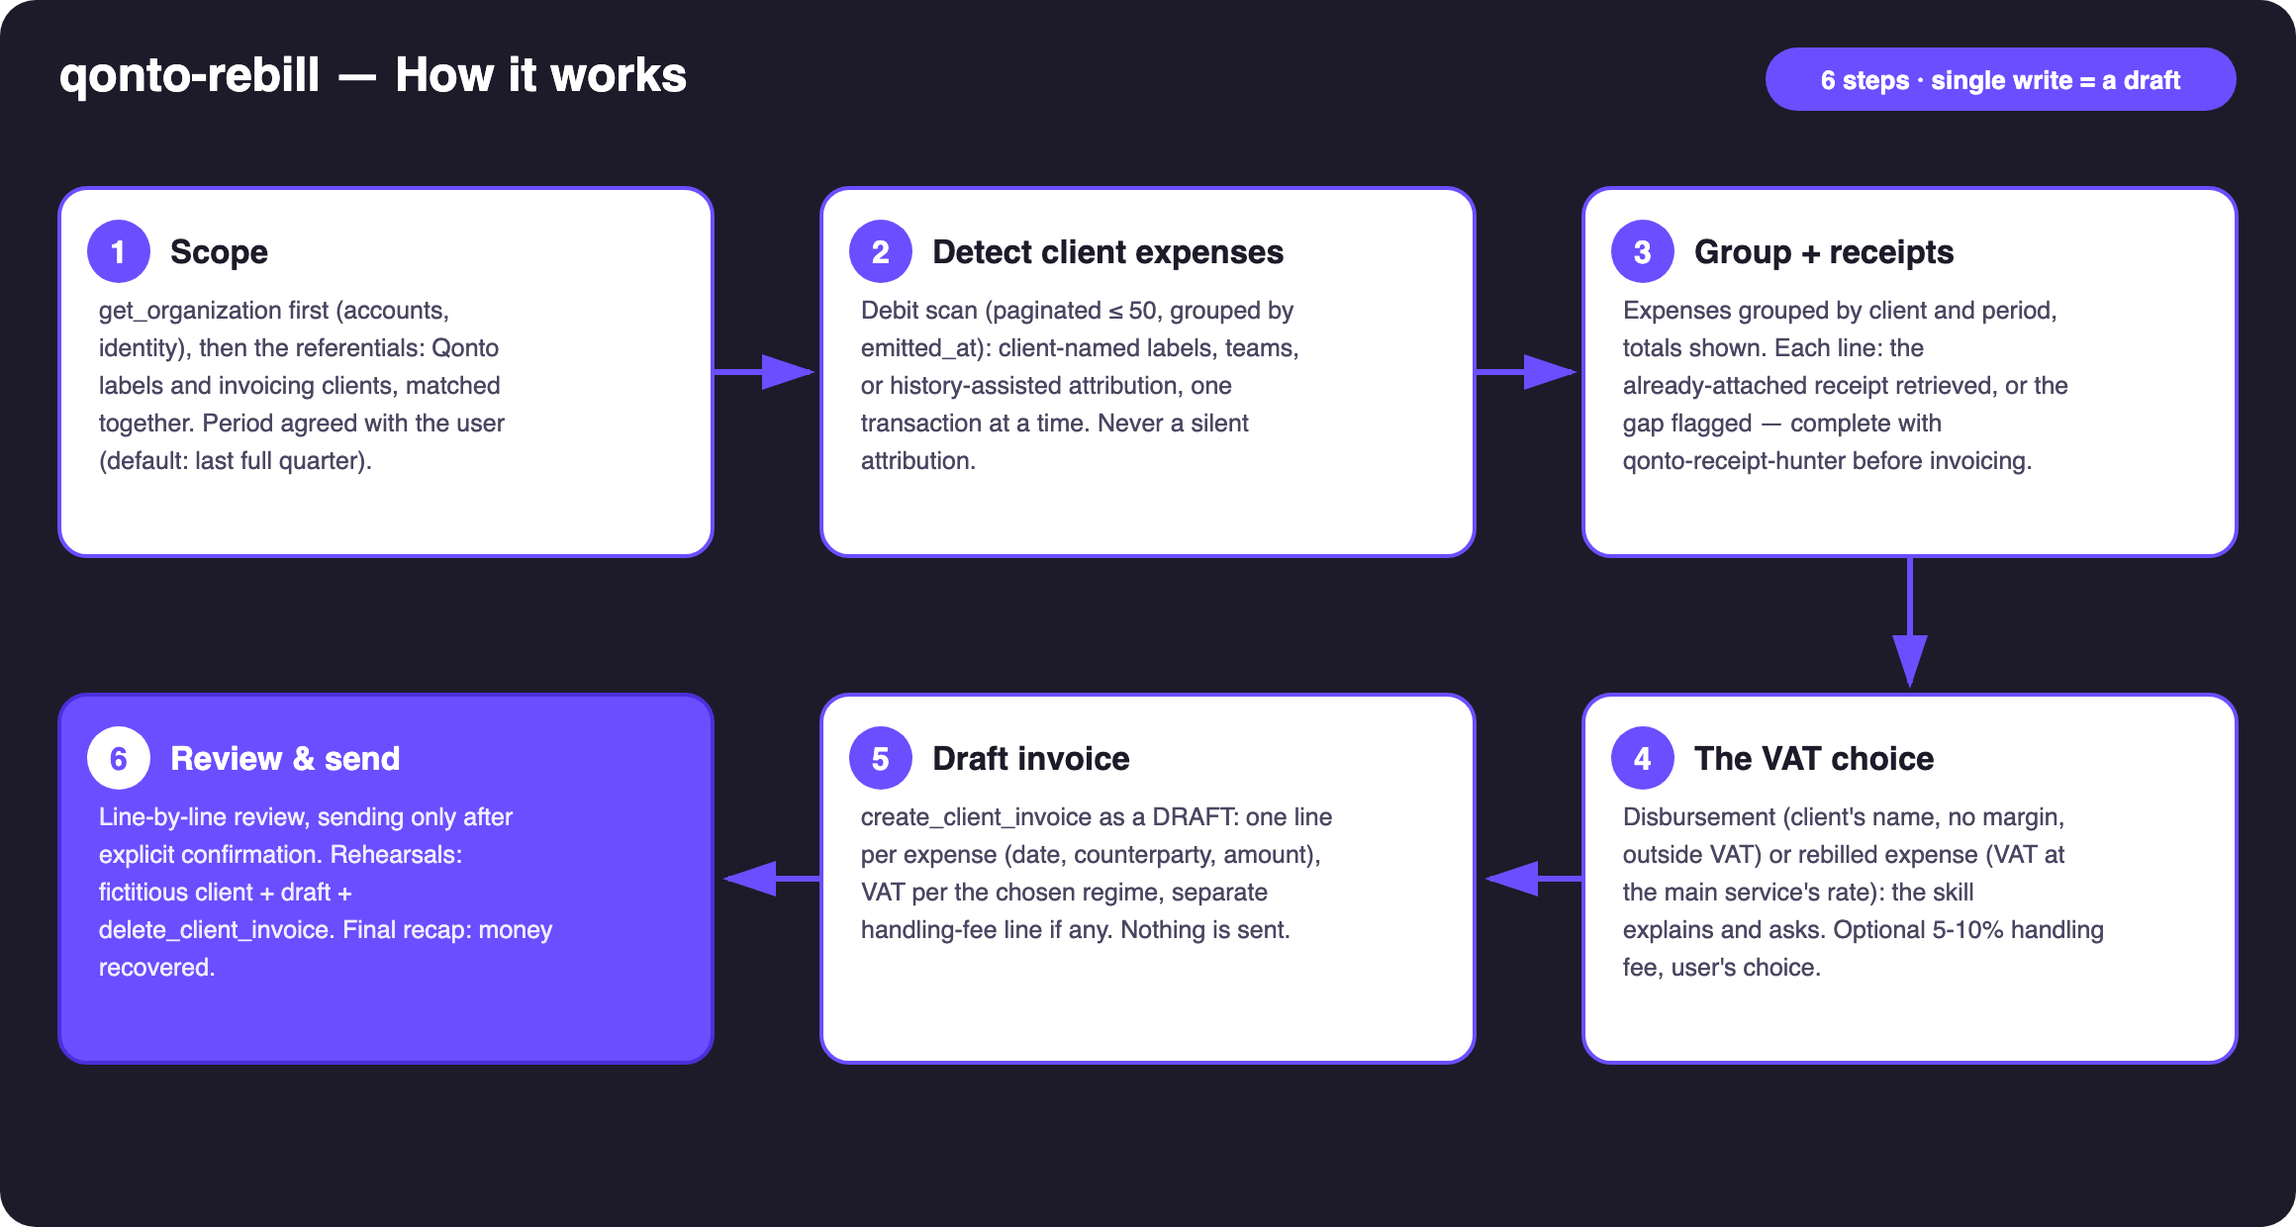
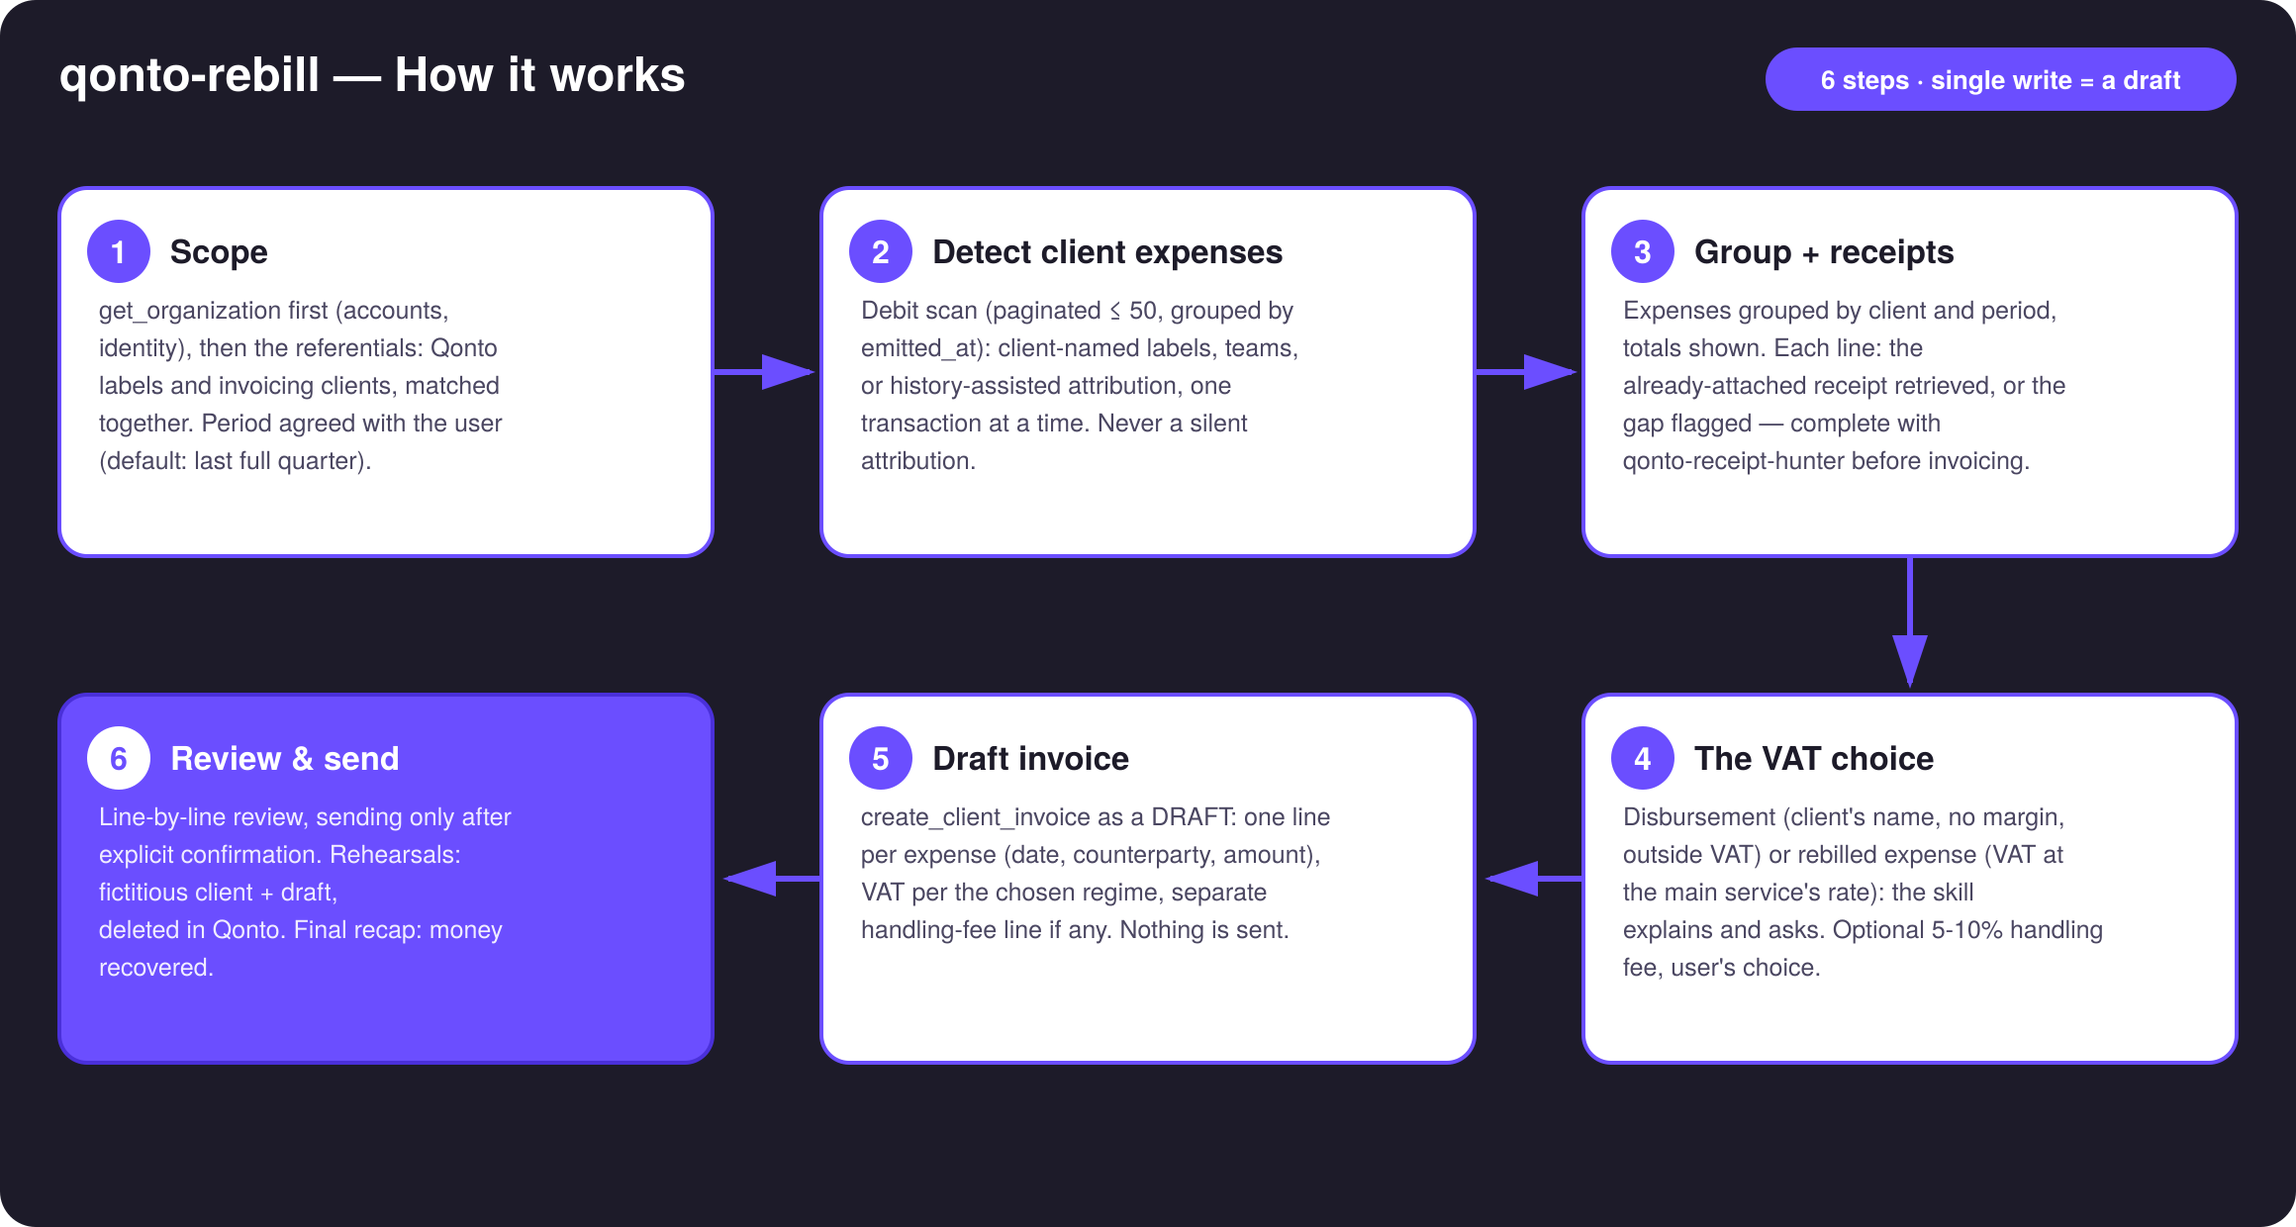
Drop unused and rehearsal-only Qonto permissions
Address review: remove create_quote and list_cash_flow_categories (never called) and delete_client_invoice (only used to clean up rehearsal drafts). Rehearsal drafts are now deleted manually in Qonto; docs and diagrams updated.
Claude-Session: https://claude.ai/code/session_01VoLGgRp5RvWJBxkGzyTAgr

diff --git a/community/qonto-rebill/Doc/doc-qonto-rebill.fr.html b/community/qonto-rebill/Doc/doc-qonto-rebill.fr.html
@@ -155,7 +155,7 @@
   <div class="diagram"><img src="../assets/functional.fr.svg" alt="Schéma fonctionnel"></div>
   <div class="secu" style="margin-top:1rem">
     <div class="lock">🔒</div>
-    <p><b>Une seule écriture, et c'est un brouillon :</b> la lecture est sans risque ; l'écriture (<b>create_client_invoice</b>) ne produit qu'un brouillon dans Qonto. L'envoi au client exige la confirmation explicite dans la conversation. Les factures MCP étant réelles, les répétitions se font sur client fictif puis <b>delete_client_invoice</b>.</p>
+    <p><b>Une seule écriture, et c'est un brouillon :</b> la lecture est sans risque ; l'écriture (<b>create_client_invoice</b>) ne produit qu'un brouillon dans Qonto. L'envoi au client exige la confirmation explicite dans la conversation. Les factures MCP étant réelles, les répétitions se font sur client fictif, puis le brouillon est supprimé à la main dans Qonto.</p>
   </div>
 </section>
 
@@ -204,7 +204,7 @@
 <section>
   <h2>🛡 Garde-fous</h2>
   <ul>
-    <li>Les factures créées via MCP sont <strong>réelles</strong> : brouillon jusqu'à confirmation explicite, jamais présenté comme envoyé, répétitions sur client fictif + <code>delete_client_invoice</code></li>
+    <li>Les factures créées via MCP sont <strong>réelles</strong> : brouillon jusqu'à confirmation explicite, jamais présenté comme envoyé, répétitions sur client fictif, brouillon supprimé à la main dans Qonto</li>
     <li><strong>Jamais d'attribution silencieuse</strong> : chaque frais douteux est demandé ; rien d'inventé — ni montant, ni justificatif, ni client</li>
     <li>Le choix débours/refacturation appartient à l'utilisateur (avec son expert-comptable) — le skill explique et demande</li>
     <li>Dégradation honnête (pas de labels, compte vide, pays ≠ FR) · IBAN masqués (4 derniers chiffres) · pagination ≤ 50</li>

diff --git a/community/qonto-rebill/Doc/doc-qonto-rebill.en.html b/community/qonto-rebill/Doc/doc-qonto-rebill.en.html
@@ -141,7 +141,7 @@
   <div class="diagram"><img src="../assets/functional.en.svg" alt="Functional diagram"></div>
   <div class="secu" style="margin-top:1rem">
     <div class="lock">🔒</div>
-    <p><b>One write, and it's a draft:</b> reads are risk-free; the write (<b>create_client_invoice</b>) only produces a draft inside Qonto. Sending it to the client requires explicit confirmation in the conversation. Since MCP-created invoices are real, rehearsals run on a fictitious client and end with <b>delete_client_invoice</b>.</p>
+    <p><b>One write, and it's a draft:</b> reads are risk-free; the write (<b>create_client_invoice</b>) only produces a draft inside Qonto. Sending it to the client requires explicit confirmation in the conversation. Since MCP-created invoices are real, rehearsals run on a fictitious client and the draft is then deleted manually in Qonto.</p>
   </div>
 </section>
 
@@ -190,7 +190,7 @@
 <section>
   <h2>🛡 Guardrails</h2>
   <ul>
-    <li>MCP-created invoices are <strong>real</strong>: draft until explicit confirmation, never presented as sent, rehearsals on a fictitious client + <code>delete_client_invoice</code></li>
+    <li>MCP-created invoices are <strong>real</strong>: draft until explicit confirmation, never presented as sent, rehearsals on a fictitious client, draft deleted manually in Qonto</li>
     <li><strong>No silent attribution, ever</strong>: every uncertain expense is asked; nothing invented — no amount, no receipt, no client</li>
     <li>The disbursement/rebill choice belongs to the user (with their accountant) — the skill explains and asks</li>
     <li>Honest degradation (no labels, empty account, non-French country) · IBANs masked (last 4 digits) · pagination ≤ 50</li>

diff --git a/community/qonto-rebill/skills/qonto-rebill/SKILL.md b/community/qonto-rebill/skills/qonto-rebill/SKILL.md
@@ -1,9 +1,9 @@
 ---
 name: qonto-rebill
-description: Recovers billable expenses from a Qonto account. Finds client-attributable transactions (client-named Qonto labels, teams, or history-assisted interactive attribution), groups them by client and period, inventories the receipts already attached to each transaction, explains the French "disbursement vs rebilled expense" VAT choice without ever deciding alone, and drafts the rebill invoice line by line (create_client_invoice as DRAFT, sent only after explicit confirmation), with an optional 5-10% handling fee (deletion used only to clean up rehearsal drafts on fictitious clients). Use for "refacture mes frais à mes clients", "which expenses did I advance for client X this quarter?", "rebill my project expenses", "did I forget billable expenses?", "invoice my travel and hosting costs back".
+description: Recovers billable expenses from a Qonto account. Finds client-attributable transactions (client-named Qonto labels, teams, or history-assisted interactive attribution), groups them by client and period, inventories the receipts already attached to each transaction, explains the French "disbursement vs rebilled expense" VAT choice without ever deciding alone, and drafts the rebill invoice line by line (create_client_invoice as DRAFT, sent only after explicit confirmation), with an optional 5-10% handling fee. Use for "refacture mes frais à mes clients", "which expenses did I advance for client X this quarter?", "rebill my project expenses", "did I forget billable expenses?", "invoice my travel and hosting costs back".
 permissions:
   mcp:
-    qonto: [create_client_invoice, create_quote, delete_client_invoice, get_attachment, get_organization, list_cash_flow_categories, list_clients, list_labels, list_transaction_attachments, list_transactions, send_client_invoice]
+    qonto: [create_client_invoice, get_attachment, get_organization, list_clients, list_labels, list_transaction_attachments, list_transactions, send_client_invoice]
   network: []
   env: []
   tools: [Read]
@@ -47,16 +47,16 @@ The skill presents this table, asks which regime applies (per line when mixed), 
 ### 5. Draft the invoice — one line per expense
 Only after the regime is chosen: `create_client_invoice` as **DRAFT** for the matched `client_id` — one item per expense ("YYYY-MM-DD — Counterparty — short description", quantity 1, unit price from the transaction, VAT rate per the chosen regime), plus a separate "Handling fee X%" line if chosen. Use a neutral number format (INV-YYYY-NNN) if a number is required. Show the draft line by line in the conversation, with the receipt inventory (✅ attached / ⚠ missing) alongside.
 
-### 6. Confirm, send — or delete
+### 6. Confirm and send
 - **Send only after explicit confirmation in the current conversation** (`send_client_invoice`). Until then it is a draft in Qonto's invoicing section — say so, never present it as sent.
-- Rehearsals and demos: fictitious client + draft + `delete_client_invoice` — **invoices created via MCP are real** and finalized numbers enter the legal sequence.
+- Rehearsals and demos: fictitious client + draft, then delete the draft manually in Qonto — **invoices created via MCP are real** and finalized numbers enter the legal sequence. The skill never deletes invoices itself.
 - Final recap: money recovered per client, receipts coverage, next ritual date. To chase payment afterwards, hand over to **qonto-invoice-chaser**.
 
 ## Output formats
 **Always** in the conversation: markdown tables (expenses per client with receipt status · draft invoice line by line · recovered total). **When the host renders files** (claude.ai artifacts, Claude Desktop, Claude Code): an HTML recap — per-client cards, receipts gauge, quarter-over-quarter recovered amounts. Otherwise the tables are the deliverable — say nothing about it. The receipt pack is a list of `get_attachment` download links (time-limited) the user can forward with the invoice.
 
 ## Guardrails
-- Invoices created via MCP are **real**. DRAFT until explicit confirmation; NEVER present a draft as sent; rehearse on a fictitious client and `delete_client_invoice` afterwards.
+- Invoices created via MCP are **real**. DRAFT until explicit confirmation; NEVER present a draft as sent; rehearse on a fictitious client and delete the draft manually in Qonto afterwards.
 - Never attribute an expense to a client without the user's agreement; never invent an attribution, an amount, or a receipt.
 - The disbursement/rebill choice is the **user's decision** (with their accountant) — the skill explains and asks, full stop.
 - Empty account, no labels, no invoicing clients → the skill says what it can and cannot do, and proposes the one-time setup (labels named after clients).

diff --git a/community/qonto-rebill/Doc/README.fr.md b/community/qonto-rebill/Doc/README.fr.md
@@ -36,13 +36,13 @@ De l'argent littéralement récupéré — sur des frais que tu as déjà payés
 3. **Regroupement + justificatifs** : tableau par client (date · tiers · montant · TVA d'achat), totaux, et pour chaque ligne le **justificatif déjà attaché** récupéré (`list_transaction_attachments` + `get_attachment`) ou le manque signalé
 4. **Le choix fiscal** : débours vs frais refacturés — tableau comparatif affiché, régime **demandé** (ligne à ligne si mixte), majoration 5-10 % proposée (jamais sur un débours)
 5. **Brouillon** : `create_client_invoice` en BROUILLON — une ligne par frais (date, tiers, montant), TVA selon le régime choisi, ligne « frais de gestion » séparée. Rien n'est envoyé
-6. **Confirmation** : relecture ligne à ligne → envoi seulement si tu confirmes explicitement (`send_client_invoice`). En répétition : client fictif + brouillon + `delete_client_invoice`
+6. **Confirmation** : relecture ligne à ligne → envoi seulement si tu confirmes explicitement (`send_client_invoice`). En répétition : client fictif + brouillon, supprimé à la main dans Qonto
 
 ## 🏗 Schéma fonctionnel
 
 ![Schéma fonctionnel](assets/functional.fr.png)
 
-**Le point clé de sécurité** : le trait plein (lecture) ne présente aucun risque ; le trait pointillé (écriture) ne produit qu'un **brouillon de facture** dans Qonto. L'envoi au client exige ta confirmation explicite dans la conversation — et les factures créées via MCP étant réelles, les répétitions se font sur client fictif puis `delete_client_invoice`.
+**Le point clé de sécurité** : le trait plein (lecture) ne présente aucun risque ; le trait pointillé (écriture) ne produit qu'un **brouillon de facture** dans Qonto. L'envoi au client exige ta confirmation explicite dans la conversation — et les factures créées via MCP étant réelles, les répétitions se font sur client fictif, puis le brouillon est supprimé à la main dans Qonto.
 
 ## ⚖ Débours vs frais refacturés (le tableau que le skill affiche)
 
@@ -90,7 +90,7 @@ La démo ≤ 3 min jointe à la PR suit le storyboard : le problème (les frais 
 
 ## 🛡 Garde-fous
 
-- Les factures créées via MCP sont **réelles** : brouillon jusqu'à confirmation explicite, jamais présenté comme envoyé, répétitions sur client fictif + `delete_client_invoice`
+- Les factures créées via MCP sont **réelles** : brouillon jusqu'à confirmation explicite, jamais présenté comme envoyé, répétitions sur client fictif, brouillon supprimé à la main dans Qonto
 - **Jamais d'attribution silencieuse** : chaque frais douteux est demandé ; rien d'inventé (ni montant, ni justificatif)
 - Le choix débours/refacturation t'appartient (avec ton expert-comptable) — le skill explique et demande
 - Dégradation honnête (pas de labels, compte vide, pays ≠ FR) ; IBAN masqués (4 derniers chiffres) ; pagination ≤ 50 partout

diff --git a/community/qonto-rebill/Doc/README.en.md b/community/qonto-rebill/Doc/README.en.md
@@ -36,13 +36,13 @@ Would someone use this on a Monday morning? It's the end-of-quarter ritual that 
 3. **Group + receipts**: per-client table (date · counterparty · amount · purchase VAT), totals, and for each line the **already-attached receipt** retrieved (`list_transaction_attachments` + `get_attachment`) or the gap flagged
 4. **The VAT choice**: disbursement vs rebilled expense — comparison table shown, regime **asked** (per line when mixed), 5-10% handling fee offered (never on a disbursement)
 5. **Draft**: `create_client_invoice` as a DRAFT — one line per expense (date, counterparty, amount), VAT per the chosen regime, separate handling-fee line. Nothing is sent
-6. **Confirm**: line-by-line review → sending only on explicit confirmation (`send_client_invoice`). Rehearsals: fictitious client + draft + `delete_client_invoice`
+6. **Confirm**: line-by-line review → sending only on explicit confirmation (`send_client_invoice`). Rehearsals: fictitious client + draft, deleted manually in Qonto
 
 ## 🏗 Functional diagram
 
 ![Functional diagram](assets/functional.en.png)
 
-**The security model**: solid arrows are risk-free reads; the dashed arrow only produces a **draft invoice** inside Qonto. Sending it to the client requires explicit confirmation in the conversation — and since MCP-created invoices are real, rehearsals run on a fictitious client and end with `delete_client_invoice`.
+**The security model**: solid arrows are risk-free reads; the dashed arrow only produces a **draft invoice** inside Qonto. Sending it to the client requires explicit confirmation in the conversation — and since MCP-created invoices are real, rehearsals run on a fictitious client and the draft is then deleted manually in Qonto.
 
 ## ⚖ Disbursement vs rebilled expense (the table the skill shows)
 
@@ -88,7 +88,7 @@ The ≤ 3-minute demo attached to the PR walks through: the problem (advanced ex
 
 ## 🛡 Guardrails
 
-- MCP-created invoices are **real**: draft until explicit confirmation, never presented as sent, rehearsals on a fictitious client + `delete_client_invoice`
+- MCP-created invoices are **real**: draft until explicit confirmation, never presented as sent, rehearsals on a fictitious client, draft deleted manually in Qonto
 - **No silent attribution, ever**: every uncertain expense is asked; nothing invented — no amount, no receipt, no client
 - The disbursement/rebill choice belongs to the user (with their accountant) — the skill explains and asks
 - Honest degradation (no labels, empty account, non-French country) · IBANs masked (last 4 digits) · pagination ≤ 50 everywhere

diff --git a/community/qonto-rebill/Doc/PROCEDURE.fr.md b/community/qonto-rebill/Doc/PROCEDURE.fr.md
@@ -58,10 +58,9 @@
 | `list_transactions` échoue d'entrée | `bank_account_id`/`iban` manquant | Normal — le skill appelle toujours `get_organization` d'abord |
 | Réponses énormes / tronquées | Pagination trop large | Le skill pagine `per_page` ≤ 50 partout |
 | Un frais de fin de trimestre manque | Frais carte réglé 1-2 jours plus tard | Le skill regroupe par `emitted_at`, pas `settled_at` |
-| `403 missing oauth scope` sur `list_cash_flow_categories` | Hors périmètre du connecteur claude.ai | Normal — le skill travaille avec les labels |
 | Client introuvable pour la facture | Absent de Facturation → Clients | Le créer dans l'app (Facturation → Clients), puis relancer le skill |
 | Justificatif absent sur une ligne | Pièce jamais attachée à la transaction | Lancer `qonto-receipt-hunter` avant de refacturer |
-| Une facture de test traîne | Les factures MCP sont **réelles** | Répétitions : client fictif + brouillon + `delete_client_invoice` |
+| Une facture de test traîne | Les factures MCP sont **réelles** | Répétitions : client fictif + brouillon, puis suppression manuelle dans Qonto |
 
 ## 🔒 Rappel sécurité
 

diff --git a/community/qonto-rebill/Doc/PROCEDURE.en.md b/community/qonto-rebill/Doc/PROCEDURE.en.md
@@ -58,10 +58,9 @@
 | `list_transactions` fails immediately | Missing `bank_account_id`/`iban` | Expected — the skill always calls `get_organization` first |
 | Huge / truncated responses | Page size too large | The skill paginates `per_page` ≤ 50 everywhere |
 | An end-of-quarter expense is missing | Card expense settled 1-2 days later | The skill groups by `emitted_at`, not `settled_at` |
-| `403 missing oauth scope` on `list_cash_flow_categories` | Outside the claude.ai connector scope | Expected — the skill works with labels |
 | Client not found for the invoice | Missing from Invoicing → Clients | Create it in the app (Invoicing → Clients), then re-run the skill |
 | Receipt missing on a line | Document never attached to the transaction | Run `qonto-receipt-hunter` before rebilling |
-| A test invoice lingers | MCP-created invoices are **real** | Rehearsals: fictitious client + draft + `delete_client_invoice` |
+| A test invoice lingers | MCP-created invoices are **real** | Rehearsals: fictitious client + draft, then delete it manually in Qonto |
 
 ## 🔒 Security reminder
 
